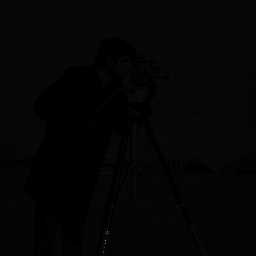
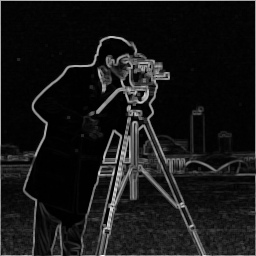
filtracja

diff --git a/P1/main.py b/P1/main.py
@@ -7,9 +7,9 @@ from sympy import Q
 
 
 def padding(originalImg, padSize):
-    padImg = np.zeros((rows+2*padSize, columns+2*padSize), dtype=np.uint8)
+    padImg = np.zeros((N+2*padSize, M+2*padSize), dtype=np.uint8)
     # Slicing
-    padImg[padSize:rows+padSize, padSize:columns+padSize] = originalImg
+    padImg[padSize:N+padSize, padSize:M+padSize] = originalImg
     return padImg
 
 
@@ -143,6 +143,35 @@ def zad_1(img):
     return output
 
 
+def zad_2(img):
+    n = int(input("Podaj rozmiar maski: "))
+    pad = n // 2
+    output = np.empty(shape=(N, M))
+
+    pad_img = padding(img, pad)
+
+    for y in range(pad, pad+N):
+        for x in range(pad, pad+M):
+            if mono:
+                fig = pad_img[y-pad:y+pad+1, x-pad:x+pad+1]
+            else:
+                fig = pad_img[y-pad:y+pad+1, x-pad:x+pad+1, :]
+            output[y-pad, x-pad] = np.std(fig)
+
+    # normalizacja
+    u = np.min(output)
+    v = np.max(output)
+    a = (0 - 255)/(u - v)
+
+    for y in range(N):
+        for x in range(M):
+            output[y, x] = int(a*output[y, x] - a*u)
+
+    print(u, v, np.min(output), np.max(output))
+
+    return output
+
+
 if __name__ == '__main__':
 
     img = cv.imread('P1/img/cameraman.tif', 0)
@@ -161,7 +190,7 @@ if __name__ == '__main__':
         output = zad_1(img)
         pass
     elif zad == 2:
-        # output = zad_2()
+        output = zad_2(img)
         pass
     elif zad == 3:
         output = zad_3(img)

diff --git a/test.py b/test.py
@@ -1,0 +1,5 @@
+if True:
+    x = 5
+else:
+    x = 4
+print(x)  
